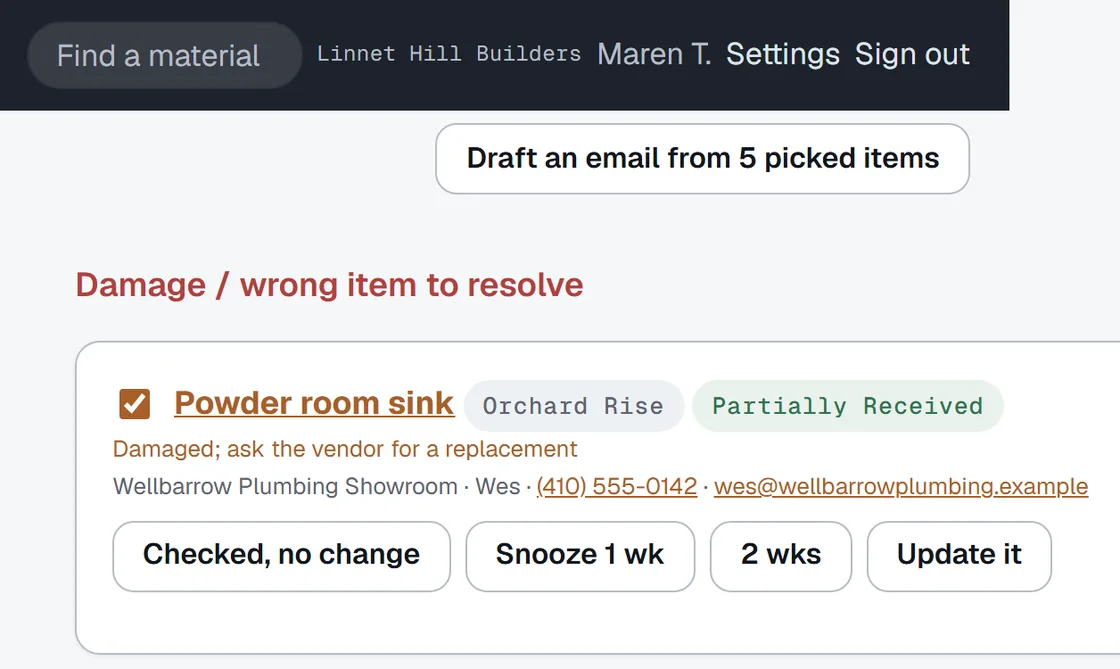
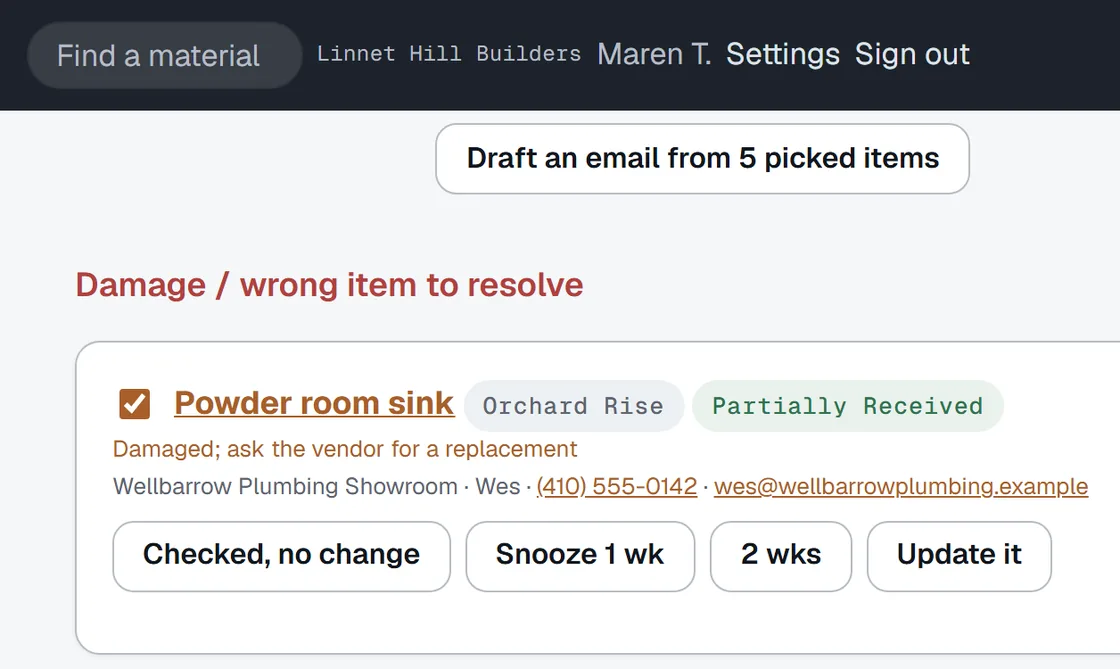
Material Monitor page: the tour's dashboard phone crop is one width top to bottom

Changed region(s): [[0.875, 0.0, 1.0, 0.1794]]

diff --git a/materialmonitor.html b/materialmonitor.html
@@ -803,7 +803,7 @@ body.mm .bp-grid {
        pin 1  search_box (bottom) box 680,12 154x38 -> left 59.477% top 6.289%, pushed 0px 18px
        pin 2  first_follow_up_reason (left) box 53,275 1134x21 -> left 4.167% top 35.899%, pushed -18px 0px
        pin 3  draft_an_email_button (right) box 908,79 300x40 -> left 94.969% top 12.465%, pushed 18px 0px
-     narrow: console/full/dashboard.png, x 764 to 1330, y 1458 to 1519, the console's bar kept (566 x 123) then console/full/dashboard.png, x 90 to 718, y 1556 to 1794 (628 x 238)
+     narrow: console/full/dashboard.png, x 764 to 1392, y 1458 to 1519, the console's bar kept (628 x 123) then console/full/dashboard.png, x 90 to 718, y 1556 to 1794 (628 x 238)
        pin 1  search_box (bottom) box 16,12 154x38 -> left 14.737% top 13.333%, pushed 0px 18px
        pin 2  first_follow_up_reason (left) box 63,242 1134x21 -> left 10.032% top 67.307%, pushed -18px 0px
        pin 3  draft_an_email_button (left) box 244,69 300x40 -> left 38.933% top 23.760%, pushed -18px 0px

diff --git a/scripts/mm_site_images.py b/scripts/mm_site_images.py
@@ -181,7 +181,8 @@ FIGURES = [
             # Phones: the right of the bar and the heading row (search box, Draft an email button)
             # above the left of the first follow-up row (its reason).
             "narrow": {"stack": [
-                {"nav": True, "x0": ("search_box", "left", -16), "x1": 1330, "y0": ("follow_up_heading", "top", -14),
+                {"nav": True, "x0": ("search_box", "left", -16), "x1": ("search_box", "left", 612),
+                 "y0": ("follow_up_heading", "top", -14),
                  "y1": ("draft_an_email_button", "bottom", 14)},
                 {"x0": 90, "x1": 720, "y0": ("first_follow_up_category", "top", -10),
                  "y1": ("first_follow_up_row", "bottom", 8), "snap_x1": "first_follow_up_contact"}],
